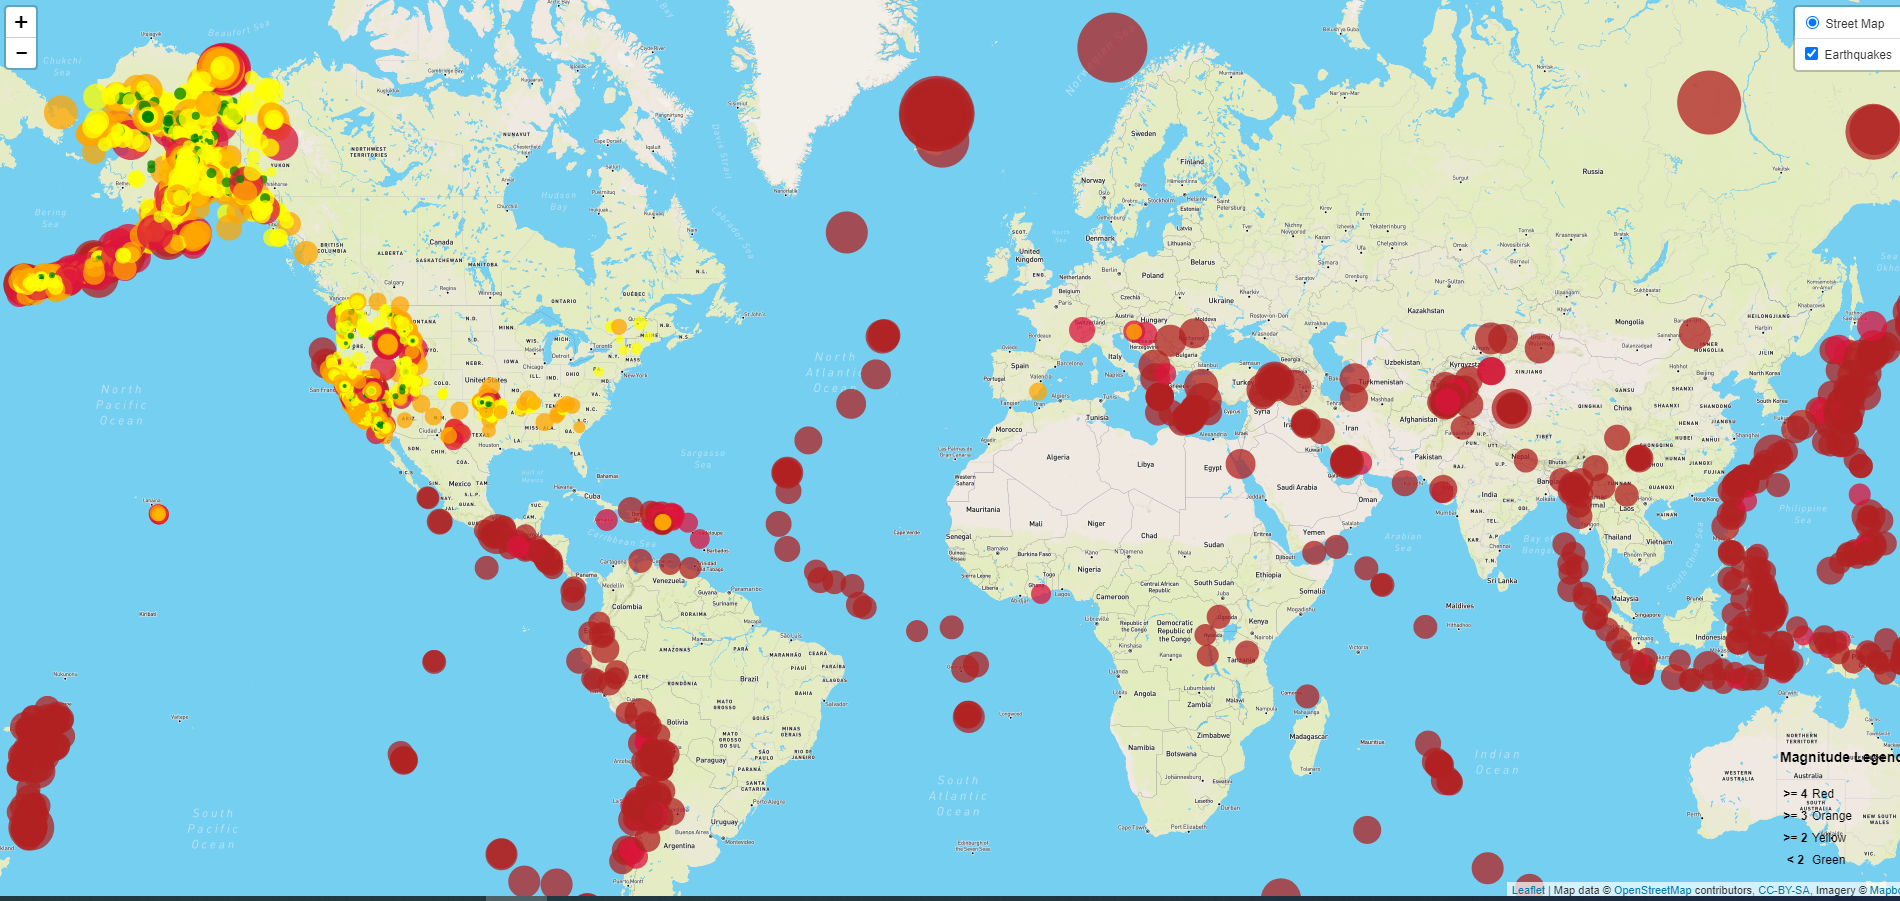
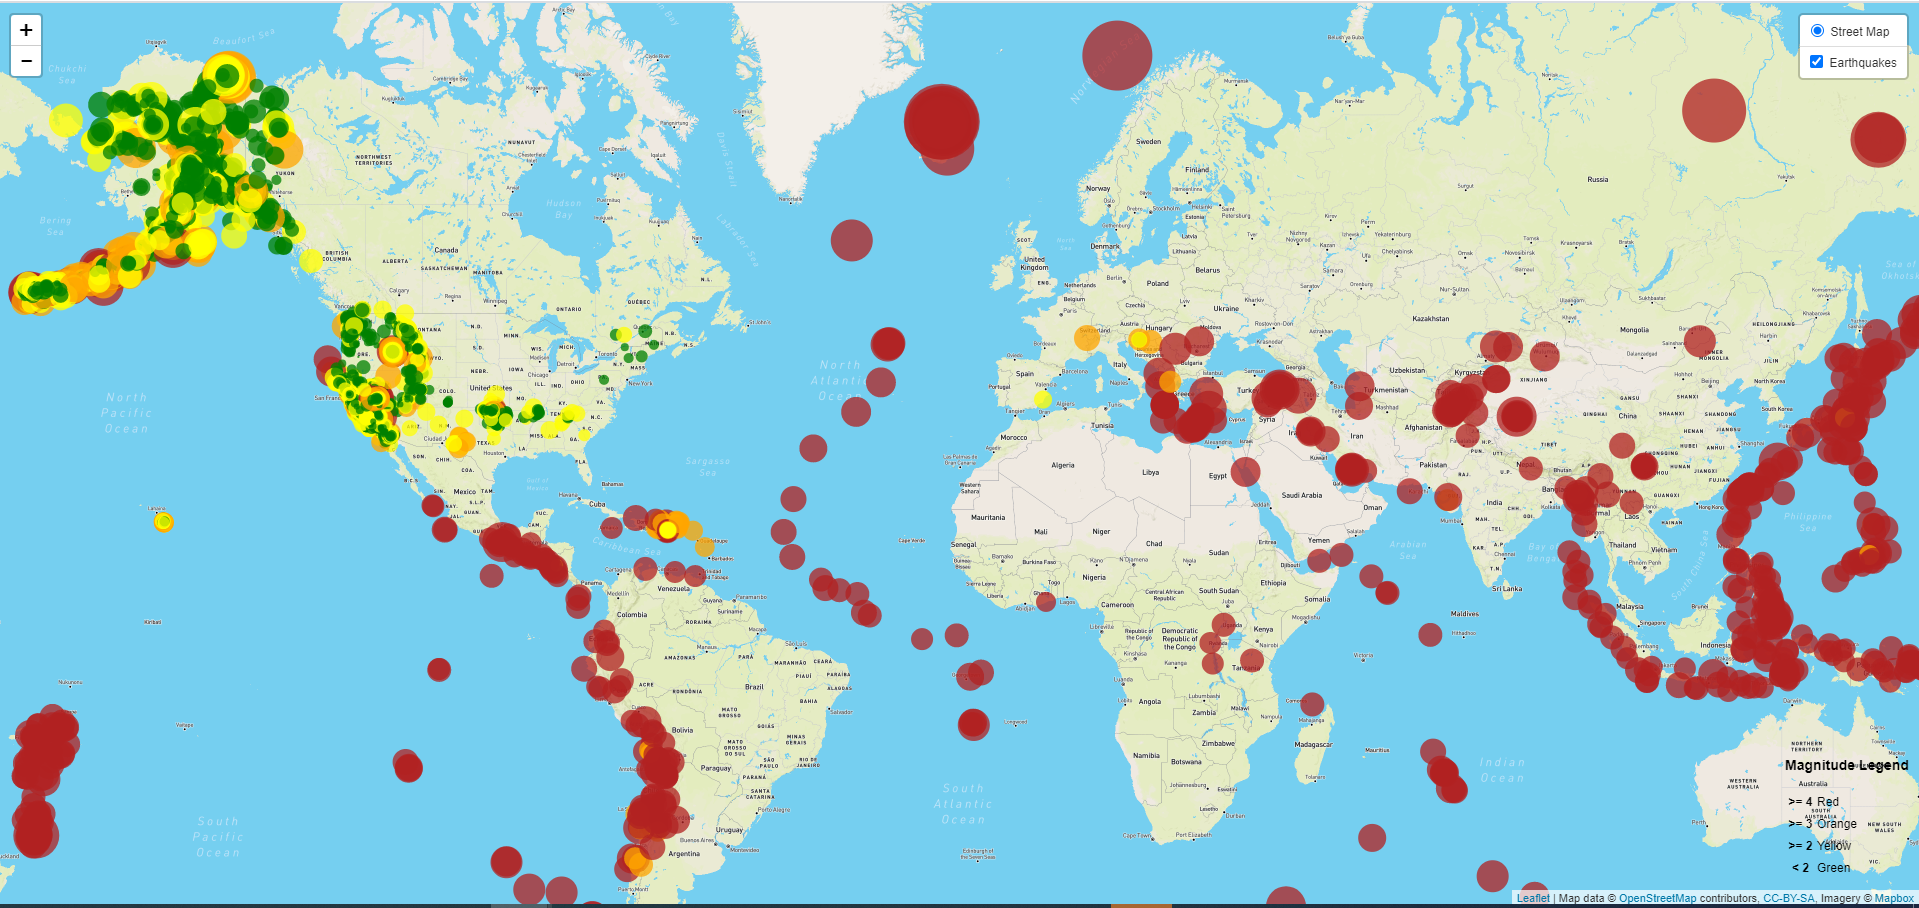
updated

diff --git a/Leaflet Step 1/static/js/logic.js b/Leaflet Step 1/static/js/logic.js
@@ -1,13 +1,11 @@
   var queryUrl = "https://earthquake.usgs.gov/earthquakes/feed/v1.0/summary/all_month.geojson";
 
   function chooseColour (magnitude){
-    if (magnitude > 4){
+    if (magnitude >= 4){
       return "FireBrick"
-    } else if (magnitude >= 3){
-      return "Crimson"
-    }else if (magnitude >= 2){
+    }else if (magnitude >= 3){
       return "orange"
-    }else if (magnitude >= 1){
+    }else if (magnitude >= 2){
       return "yellow"
     }else {
       return "Green"
